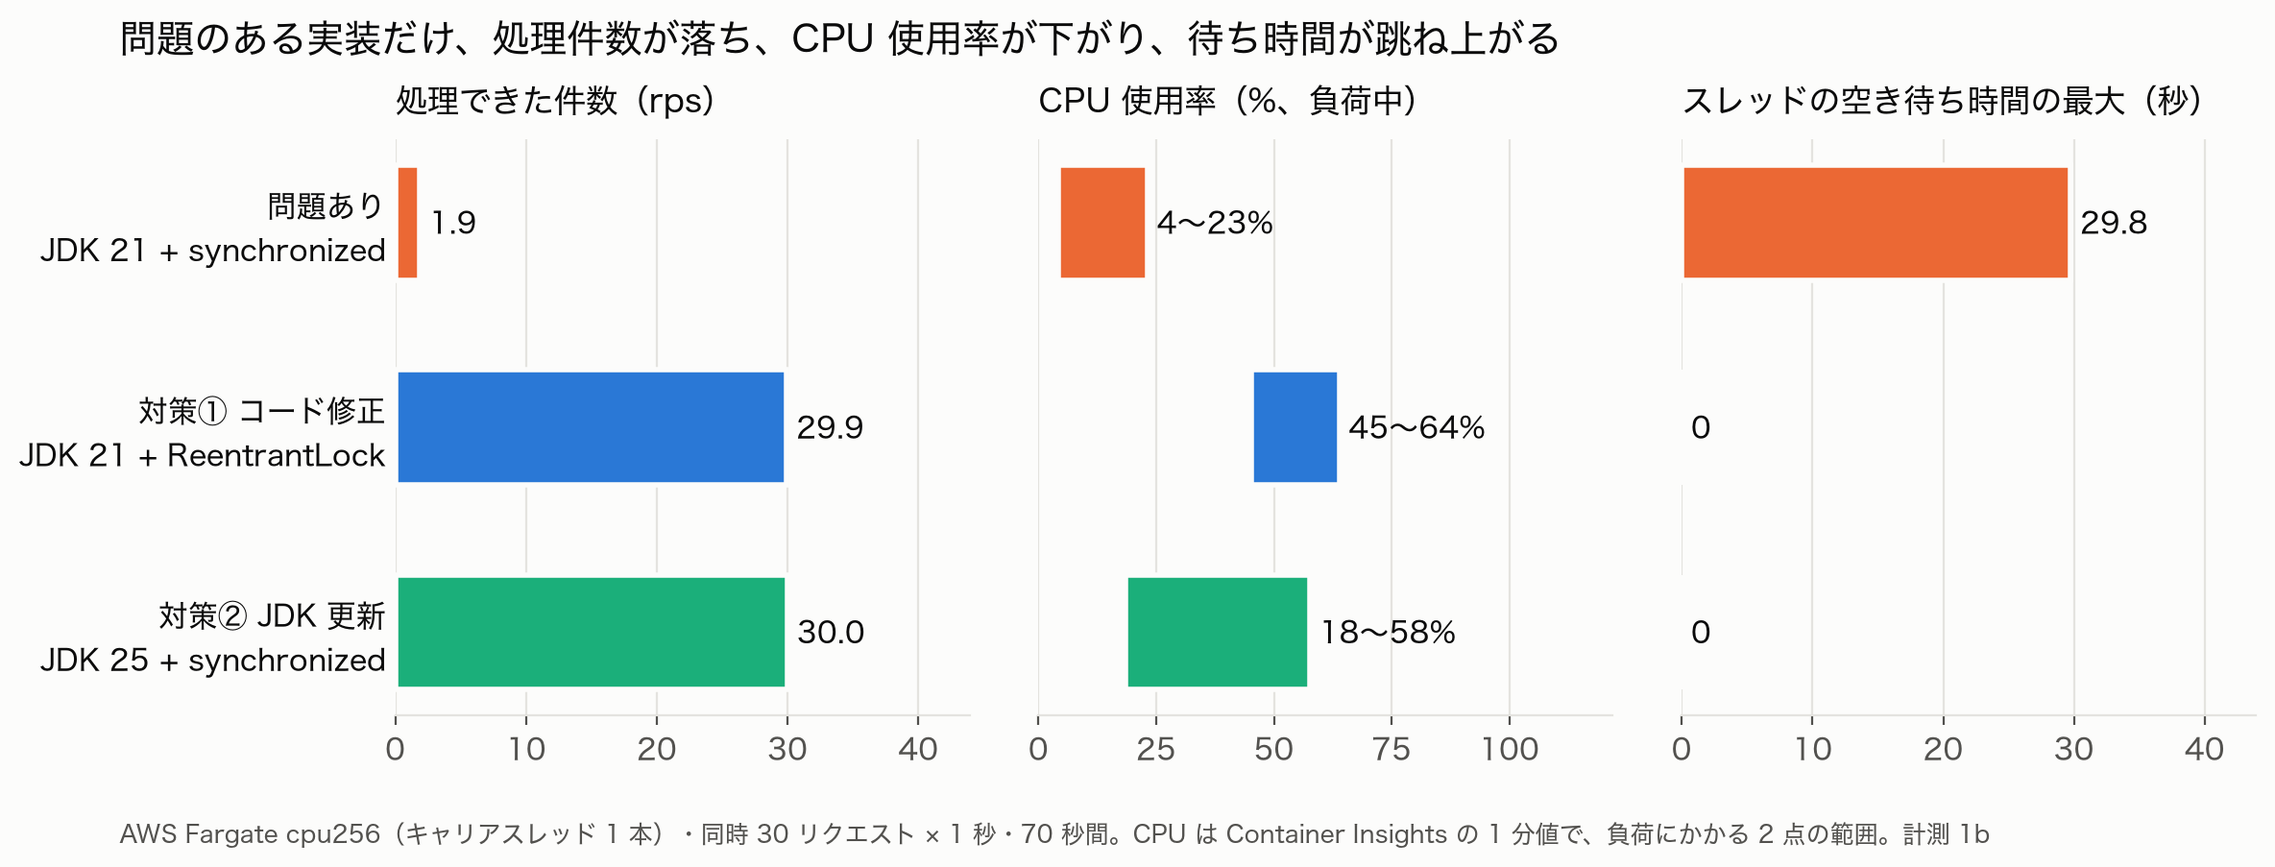
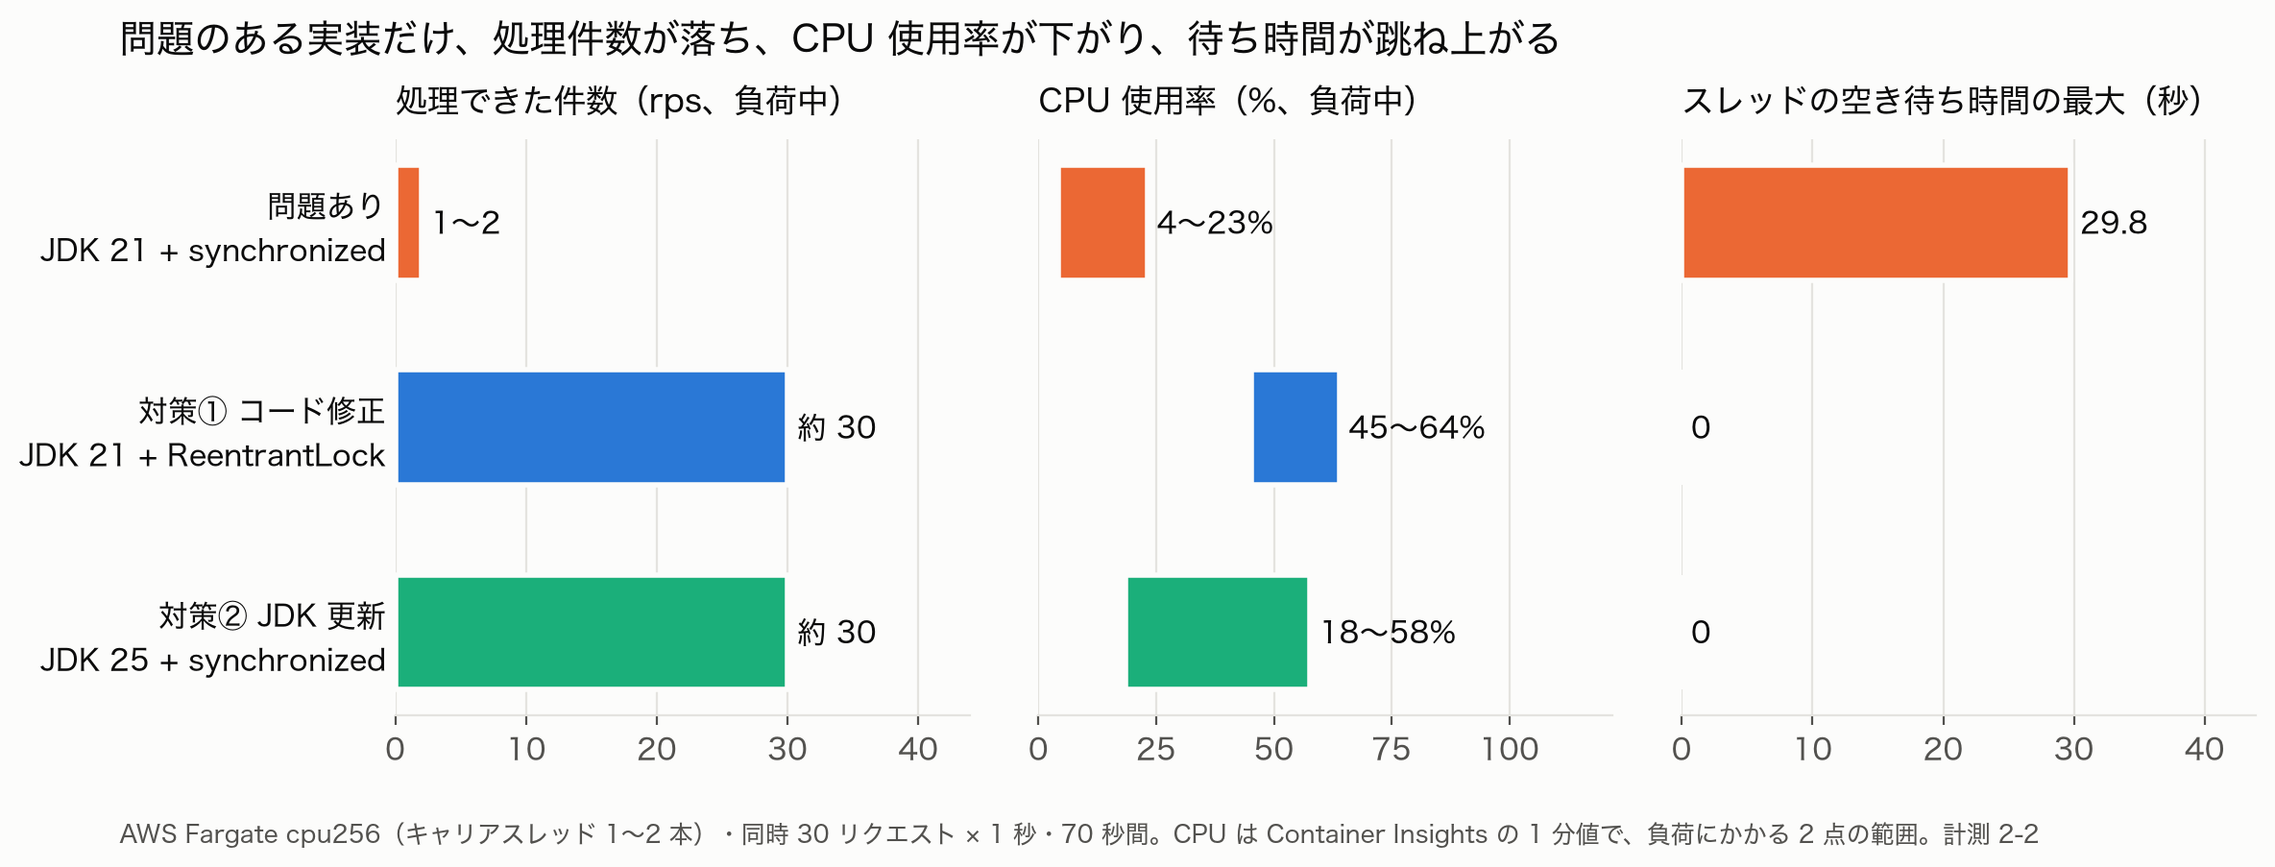
update: runtime/concurrency-model-rds-proxy-fargate

diff --git a/runtime/concurrency-model-rds-proxy-fargate/k6/crosstalk.js b/runtime/concurrency-model-rds-proxy-fargate/k6/crosstalk.js
@@ -1,7 +1,7 @@
 import http from 'k6/http';
 import { Counter, Trend } from 'k6/metrics';
 
-// 「少数のスレッドをブロックすると、無関係なリクエストまで巻き込まれる」ことを k6 で測る。
+// 「数の限られたスレッド（キャリアスレッド・イベントループ）をブロックすると、無関係なリクエストまで巻き込まれる」ことを k6 で測る。
 // crosstalk.sh の AWS 版。
 //
 // crosstalk.sh（curl + bc）を残しているのは、k6 のない環境でも検証の核を確認できるようにするため。

diff --git a/runtime/concurrency-model-rds-proxy-fargate/docs/figures/make_figures.py b/runtime/concurrency-model-rds-proxy-fargate/docs/figures/make_figures.py
@@ -3,7 +3,7 @@
 入力は k6/results/raw-logs/ に書き出した生データ（CloudWatch Logs は 7 日で消えるため手元に退避したもの）。
 git には入れていないので、この図を描き直せるのはデータを持っている手元だけ。
 
-  claim2-cpu-inversion.png  仮説 2: 問題のある実装だけ CPU 使用率が低く、待ち時間が跳ね上がる（計測 1b）
+  claim2-cpu-inversion.png  仮説 2: 問題のある実装だけ CPU 使用率が低く、待ち時間が跳ね上がる（計測 2-2）
   claim1-session-pinning.png  仮説 1: useServerPrepStmts を有効にすると、アプリの接続がすべてピニングされる
   claim1-db-threads.png     仮説 1: 接続は足りているのに DB の中で順番待ちしている（#18 の観測）
 
@@ -71,17 +71,19 @@ def load_window(end_jst):
 
 
 def claim2():
-    # 成功数は 70 秒の負荷区間の値（README 計測 1b）。遅れの最大は EMF のピーク
+    # 処理件数は負荷中の毎秒の件数（k6 のログを 1 秒ごとに見た値。README 計測 2-2）。
+    # 成功数 ÷ 70 秒にしないのは、成功数に負荷を止めた後の猶予（gracefulStop）に返った分が入るため。
+    # 問題ありは前半が毎秒 1 件、後半が毎秒 2 件。スレッドの空き待ち時間の最大は EMF のピーク
     conditions = [
-        # 表示名, 色, タスク定義, ログの書き終わり（JST）, 成功数, 遅れの最大 ms
-        ("問題あり\nJDK 21 + synchronized", BROKEN, "cnj-cm-mvc-jdk21-cpu256", "2026-09-24T23:11:27", 130, 29750),
-        ("対策① コード修正\nJDK 21 + ReentrantLock", FIX_CODE, "cnj-cm-mvc-jdk21-cpu256", "2026-09-24T23:07:14", 2096, 0),
-        ("対策② JDK 更新\nJDK 25 + synchronized", FIX_JDK, "cnj-cm-mvc-jdk25-cpu256", "2026-09-24T23:15:56", 2100, 0),
+        # 表示名, 色, タスク定義, ログの書き終わり（JST）, 毎秒の処理件数（最小, 最大）, スレッドの空き待ち時間の最大 ms
+        ("問題あり\nJDK 21 + synchronized", BROKEN, "cnj-cm-mvc-jdk21-cpu256", "2026-09-24T23:11:27", (1, 2), 29750),
+        ("対策① コード修正\nJDK 21 + ReentrantLock", FIX_CODE, "cnj-cm-mvc-jdk21-cpu256", "2026-09-24T23:07:14", (30, 30), 0),
+        ("対策② JDK 更新\nJDK 25 + synchronized", FIX_JDK, "cnj-cm-mvc-jdk25-cpu256", "2026-09-24T23:15:56", (30, 30), 0),
     ]
     rows = []
-    for name, color, family, end, successes, lag_ms in conditions:
+    for name, color, family, end, rps, lag_ms in conditions:
         lo, hi = cpu_range(family, *load_window(end))
-        rows.append((name, color, successes / 70, lo, hi, lag_ms / 1000))
+        rows.append((name, color, rps, lo, hi, lag_ms / 1000))
 
     fig, axes = plt.subplots(1, 3, figsize=(12.5, 3.9), sharey=True,
                              gridspec_kw={"wspace": 0.12})
@@ -89,7 +91,8 @@ def claim2():
     bar_h = 0.56
 
     panels = [
-        ("処理できた件数（rps）", lambda r: (0, r[2]), 36, lambda r: f"{r[2]:.1f}"),
+        ("処理できた件数（rps、負荷中）", lambda r: (0, r[2][1]), 36,
+         lambda r: f"{r[2][0]}〜{r[2][1]}" if r[2][0] != r[2][1] else f"約 {r[2][0]}"),
         ("CPU 使用率（%、負荷中）", lambda r: (r[3], r[4]), 100, lambda r: f"{r[3]:.0f}〜{r[4]:.0f}%"),
         ("スレッドの空き待ち時間の最大（秒）", lambda r: (0, r[5]), 36, lambda r: f"{r[5]:.1f}" if r[5] else "0"),
     ]
@@ -111,8 +114,8 @@ def claim2():
     fig.suptitle("問題のある実装だけ、処理件数が落ち、CPU 使用率が下がり、待ち時間が跳ね上がる", x=0.01, ha="left",
                  fontsize=14, color=INK, y=1.04)
     fig.text(0.01, -0.06,
-             "AWS Fargate cpu256（キャリアスレッド 1 本）・同時 30 リクエスト × 1 秒・70 秒間。"
-             "CPU は Container Insights の 1 分値で、負荷にかかる 2 点の範囲。計測 1b",
+             "AWS Fargate cpu256（キャリアスレッド 1〜2 本）・同時 30 リクエスト × 1 秒・70 秒間。"
+             "CPU は Container Insights の 1 分値で、負荷にかかる 2 点の範囲。計測 2-2",
              fontsize=9, color=INK_2, ha="left")
     fig.savefig(HERE / "claim2-cpu-inversion.png", dpi=200, bbox_inches="tight")
     plt.close(fig)
@@ -137,7 +140,7 @@ def db_threads(filename, start_utc=None, end_utc=None):
         fields = dict(part.split("=") for part in event["m"].split()[1:])
         points.append((t, int(fields["borrowed"]), max(int(fields["active"]) - 1, 0)))
     points.sort()
-    # k6 は本計測の前に 10 同時のウォームアップを流す。借りた本数が一度 0 に戻るまでを
+    # k6 は本計測の前に 10 同時のウォームアップを流す。使用中の本数が一度 0 に戻るまでを
     # ウォームアップとして落とし、本計測（同時 1 の段）の 3 秒前を 0 秒にする
     i = next(i for i, p in enumerate(points) if p[1] > 0)
     i = next(j for j in range(i, len(points)) if points[j][1] == 0)

diff --git a/runtime/concurrency-model-rds-proxy-fargate/common/src/main/java/com/ryotashi29/cnj/runtime/concurrency/common/metrics/StarvationProbe.java b/runtime/concurrency-model-rds-proxy-fargate/common/src/main/java/com/ryotashi29/cnj/runtime/concurrency/common/metrics/StarvationProbe.java
@@ -11,7 +11,7 @@ import java.util.concurrent.ScheduledExecutorService;
 import java.util.concurrent.TimeUnit;
 
 /**
- * 少数のスレッドがブロックされていることを、CPU ではなく<b>遅延</b>で測る。仮説 2 の対策のうち「観測」。
+ * 数の限られたスレッド（キャリアスレッド・イベントループ）がブロックされていることを、CPU ではなく<b>スレッドの空き待ち時間</b>で測る。仮説 2 の対策のうち「観測」。
  *
  * <p>やっていることは単純で、監視対象の executor に何もしないタスクを投げ、
  * <b>投げてから走り出すまでの時間</b>を測る。イベントループやキャリアスレッドがブロックされていれば、
@@ -62,7 +62,7 @@ public final class StarvationProbe implements AutoCloseable {
         watcher.scheduleAtFixedRate(this::tick, 0, intervalMillis, TimeUnit.MILLISECONDS);
     }
 
-    /** 監視対象のうち最も遅れているものの、いまの遅れ。 */
+    /** 監視対象のうち最も長く待たされているものの、いまの空き待ち時間。 */
     public long lagMillis() {
         long now = System.nanoTime();
         long max = 0;
@@ -73,7 +73,7 @@ public final class StarvationProbe implements AutoCloseable {
     }
 
     /**
-     * 前回呼ばれてから観測した遅れの最大値を返し、高水位をリセットする。
+     * 前回呼ばれてから観測した空き待ち時間の最大値を返し、高水位をリセットする。
      *
      * <p>メトリクスの送信間隔（数秒）より監視の間隔（数百ミリ秒）のほうが短いので、
      * 送信時点の瞬間値だけを送ると山を取り逃す。送信側はこちらを使う。
@@ -170,7 +170,7 @@ public final class StarvationProbe implements AutoCloseable {
         }
 
         private long lagMillis(long nowNanos) {
-            // 未完了なら「まだ走っていない時間」が遅れの下限。完了済みなら測れた値
+            // 未完了なら「まだ走っていない時間」が空き待ち時間の下限。完了済みなら測れた値
             long nanos = pending ? nowNanos - submittedAtNanos : lastLagNanos;
             return Math.max(0, nanos) / NANOS_PER_MILLI;
         }

diff --git a/runtime/concurrency-model-rds-proxy-fargate/common/src/main/java/com/ryotashi29/cnj/runtime/concurrency/common/metrics/DatabaseThreadObserver.java b/runtime/concurrency-model-rds-proxy-fargate/common/src/main/java/com/ryotashi29/cnj/runtime/concurrency/common/metrics/DatabaseThreadObserver.java
@@ -15,8 +15,8 @@ import java.util.function.IntSupplier;
 /**
  * DB の中で、いま本当に {@code SLEEP()} を実行している接続が何本あるかを数える。
  *
- * <p>アプリ側から見えるのは「接続を何本借りているか」まで。借りた接続の上で SQL が
- * <b>DB の中で実際に走り出しているか</b>は、アプリからは見えない。借りている本数と
+ * <p>アプリ側から見えるのは「接続を何本使用しているか」まで。使用中の接続の上で SQL が
+ * <b>DB の中で実際に走り出しているか</b>は、アプリからは見えない。使用中の本数と
  * 走っている本数を同じ瞬間に並べると、両者の差が「DB の中で順番待ちしている本数」になる。
  *
  * <p>数えるのは {@code information_schema.PROCESSLIST} のうち、{@code INFO} が
@@ -57,7 +57,7 @@ public final class DatabaseThreadObserver implements AutoCloseable {
     /**
      * 1 回ぶんの観測値。同じ瞬間に取った 4 つを 1 組で扱う。
      *
-     * @param borrowed アプリが借りている接続の本数
+     * @param borrowed アプリが使用中の接続の本数
      * @param sleeping DB の中で SLEEP を実行している本数
      * @param active   DB の中で何か実行している本数（SLEEP 以外も含む）
      * @param running  {@code Threads_running}。観測用の接続自身も 1 本含む
@@ -73,7 +73,7 @@ public final class DatabaseThreadObserver implements AutoCloseable {
 
     /**
      * @param jdbcUrl             観測用の接続先。アプリのプールとは別に 1 本だけ張る
-     * @param borrowedConnections アプリが借りている接続の本数を返す。HikariCP なら activeConnections
+     * @param borrowedConnections アプリが使用中の接続の本数を返す。HikariCP なら activeConnections
      * @param intervalMillis      観測の間隔
      */
     public DatabaseThreadObserver(String jdbcUrl, String user, String password,

diff --git a/runtime/concurrency-model-rds-proxy-fargate/mvc/src/main/java/com/ryotashi29/cnj/runtime/concurrency/mvc/config/StarvationMetricsConfig.java b/runtime/concurrency-model-rds-proxy-fargate/mvc/src/main/java/com/ryotashi29/cnj/runtime/concurrency/mvc/config/StarvationMetricsConfig.java
@@ -55,9 +55,9 @@ public class StarvationMetricsConfig {
     }
 
     /**
-     * ピニングそのものを数える。{@link StarvationProbe} が測る遅れの<b>原因側</b>。
+     * ピニングそのものを数える。{@link StarvationProbe} が測るスレッドの空き待ち時間の<b>原因側</b>。
      *
-     * <p>遅れだけでは「詰まった」ことしか言えない。ここを足すと、詰まりの原因が
+     * <p>空き待ち時間だけでは「詰まった」ことしか言えない。ここを足すと、詰まりの原因が
      * キャリアスレッドを離せないことだったと<b>推測ではなく数値で</b>言える。
      * 購読に失敗しても計測は続けたいので、{@code start()} の戻り値は
      * 送信側で見て、駄目なときはメトリクスを出さない（0 件と混同させない）。
@@ -73,9 +73,9 @@ public class StarvationMetricsConfig {
      * DB の中で SLEEP を実行している本数を数える。{@code DB_OBSERVER_HOST} を渡したときだけ動く。
      *
      * <p>プールを増やしても Proxy を外しても上限が 約 20 rps で動かなかった。
-     * アプリが借りている本数と、DB の中で実際に走っている本数を並べて、
+     * アプリが使用中の本数と、DB の中で実際に走っている本数を並べて、
      * <b>接続は足りているのに DB の中で順番待ちしている</b>のかを確かめる。
-     * 借りている本数は HikariCP の activeConnections。プールが起動する前は 0 を返す。
+     * 使用中の本数は HikariCP の activeConnections。プールが起動する前は 0 を返す。
      */
     @Bean(destroyMethod = "close")
     @ConditionalOnExpression("!'${db-observer.host:}'.isEmpty()")

diff --git a/runtime/concurrency-model-rds-proxy-fargate/mvc/src/main/java/com/ryotashi29/cnj/runtime/concurrency/mvc/controller/DiagnosticsController.java b/runtime/concurrency-model-rds-proxy-fargate/mvc/src/main/java/com/ryotashi29/cnj/runtime/concurrency/mvc/controller/DiagnosticsController.java
@@ -57,10 +57,10 @@ public class DiagnosticsController {
         result.put("boundedPermitsAvailable", databaseWorkload.availablePermits());
         // キャリアスレッドがブロックされていれば lagMillis が伸びる。CPU では見えない枯渇の申告
         starvationProbe.ifAvailable(probe -> result.put("starvation", probe.snapshot()));
-        // 遅れの原因側。available が false のときの 0 件は「観測していない」の意味なので、
+        // スレッドの空き待ち時間が延びた原因側。available が false のときの 0 件は「観測していない」の意味なので、
         // 件数だけでなく購読の状態も申告させる
         pinnedEventRecorder.ifAvailable(recorder -> result.put("pinning", recorder.snapshot()));
-        // 借りている接続の本数と、DB の中で SLEEP を実行している本数。差が DB の中の順番待ち
+        // 使用中の接続の本数と、DB の中で SLEEP を実行している本数。差が DB の中の順番待ち
         databaseThreadObserver.ifAvailable(observer -> result.put("databaseThreads", observer.snapshot()));
         result.put("memory", JvmDiagnostics.memory());
         return result;

diff --git a/runtime/concurrency-model-rds-proxy-fargate/mvc/src/main/java/com/ryotashi29/cnj/runtime/concurrency/mvc/service/PinnedWorkload.java b/runtime/concurrency-model-rds-proxy-fargate/mvc/src/main/java/com/ryotashi29/cnj/runtime/concurrency/mvc/service/PinnedWorkload.java
@@ -58,7 +58,7 @@ public class PinnedWorkload {
      * <p>{@code ReentrantLock} は {@code LockSupport.park} で待つため仮想スレッドがアンマウントされ、
      * 待っている間キャリアスレッドが空く。{@code synchronized} はモニタを JVM のスタックに結び付けるので
      * JDK 23 以前ではアンマウントできない。<b>直し方が「JDK を上げる」だけではないことを示すのが狙い。</b>
-     * JDK を選べない現場でも、少数のスレッドをブロックしない書き方に変えれば症状は消える。
+     * JDK を選べない現場でも、キャリアスレッドをブロックしない書き方に変えれば症状は消える。
      *
      * <p>ここで待つのは {@code lock()} ではなく、その中の {@code sleep} であることに注意。
      * ストライプを分散させているのでロック競合はほとんど起きず、

diff --git a/runtime/concurrency-model-rds-proxy-fargate/mvc/src/main/java/com/ryotashi29/cnj/runtime/concurrency/mvc/service/DatabaseWorkload.java b/runtime/concurrency-model-rds-proxy-fargate/mvc/src/main/java/com/ryotashi29/cnj/runtime/concurrency/mvc/service/DatabaseWorkload.java
@@ -45,7 +45,7 @@ public class DatabaseWorkload {
      * トランザクションの中で接続を握ったまま、<b>アプリ側で</b>保持時間だけ待つ。
      *
      * <p>{@link #holdConnection} の {@code SLEEP()} は接続だけでなく Aurora MySQL の中の処理（DB 側のスレッド）まで占有し、
-     * 借りている接続が 25 本でも DB の中で同時に進むのは 3〜4 本で頭打ちになった（2026-09-26）。
+     * 使用中の接続が 25 本でも DB の中で同時に進むのは 3〜4 本で頭打ちになった（2026-09-26）。
      * これでは上限がプールの大きさと無関係になり、{@code プールサイズ / 保持時間} を確かめられない。
      * こちらは待っている間 DB に何も投げないので、占有するのは接続だけになる。
      *

diff --git a/runtime/concurrency-model-rds-proxy-fargate/cdk/src/main/java/com/ryotashi29/cnj/runtime/concurrency/cdk/MeasurementTier.java b/runtime/concurrency-model-rds-proxy-fargate/cdk/src/main/java/com/ryotashi29/cnj/runtime/concurrency/cdk/MeasurementTier.java
@@ -76,7 +76,7 @@ public class MeasurementTier extends Construct {
     /**
      * ヒープと GC を固定する。タスクサイズを変えると {@code MaxRAMPercentage} 由来のヒープも動くため、
      * 固定しないと「タスクサイズを変えた結果」に「ヒープが変わった結果」が混ざる。
-     * 測りたいのは CPU 側（{@code availableProcessors} と少数のスレッドの本数）だけ。
+     * 測りたいのは CPU 側（{@code availableProcessors} とキャリアスレッド・イベントループの本数）だけ。
      *
      * <p>GC を明示するのは同じ理由。JVM の ergonomics は「2 CPU 以上かつ 2 GB 以上」で
      * G1 を選ぶため、{@code cpu256}（{@code availableProcessors} が 1）だけ Serial GC になる。

diff --git a/runtime/concurrency-model-rds-proxy-fargate/webflux/src/main/java/com/ryotashi29/cnj/runtime/concurrency/webflux/controller/DiagnosticsController.java b/runtime/concurrency-model-rds-proxy-fargate/webflux/src/main/java/com/ryotashi29/cnj/runtime/concurrency/webflux/controller/DiagnosticsController.java
@@ -19,7 +19,7 @@ import org.springframework.web.bind.annotation.RestController;
 /**
  * 計測条件を実行中のプロセス自身に申告させるエンドポイント。mvc 側と対になる。
  *
- * <p>仮説 2 は「少数のスレッドの本数が上限を決める」であり、WebFlux でのその本数は
+ * <p>仮説 2 は「数の限られたスレッドの本数が上限を決める」であり、WebFlux でのその本数は
  * イベントループスレッド数。{@code reactor.netty.ioWorkerCount} を明示していなければ
  * {@code max(4, availableProcessors())} が既定になるため、設定値と実際に立っている本数の
  * 両方を返す。Fargate の 0.25 vCPU で本当に本数が絞られるのかを、推測ではなく実測で押さえる。

diff --git a/runtime/concurrency-model-rds-proxy-fargate/common/src/main/java/com/ryotashi29/cnj/runtime/concurrency/common/diagnostics/JvmDiagnostics.java b/runtime/concurrency-model-rds-proxy-fargate/common/src/main/java/com/ryotashi29/cnj/runtime/concurrency/common/diagnostics/JvmDiagnostics.java
@@ -48,7 +48,7 @@ public final class JvmDiagnostics {
      * 名前が接頭辞に一致する生存スレッド数。
      *
      * <p>イベントループ（{@code reactor-http-nio-}）やキャリアスレッド（{@code ForkJoinPool}）が
-     * 実際に何本立っているかを見るために使う。仮説 2 の「少数のスレッドの本数が上限を決める」は
+     * 実際に何本立っているかを見るために使う。仮説 2 の「数の限られたスレッドの本数が上限を決める」は
      * この値が {@code availableProcessors()} に連動することが前提なので、推測せず実測する。
      */
     public static long countThreads(String namePrefix) {

diff --git a/runtime/concurrency-model-rds-proxy-fargate/common/src/main/java/com/ryotashi29/cnj/runtime/concurrency/common/metrics/PinnedEventRecorder.java b/runtime/concurrency-model-rds-proxy-fargate/common/src/main/java/com/ryotashi29/cnj/runtime/concurrency/common/metrics/PinnedEventRecorder.java
@@ -10,7 +10,7 @@ import jdk.jfr.consumer.RecordingStream;
 /**
  * 仮想スレッドのピニングを JFR の {@code jdk.VirtualThreadPinned} イベントとして数える。
  *
- * <p>{@link StarvationProbe} が測るのはブロックの<b>結果</b>（走り出すまでの遅れ）で、
+ * <p>{@link StarvationProbe} が測るのはブロックの<b>結果</b>（走り出すまでの空き待ち時間）で、
  * こちらが数えるのは<b>原因</b>（キャリアスレッドを離せないままブロックしたこと）。
  * 2 つを同じ名前空間に出すと、CloudWatch 上で原因と結果を同じ時間軸に重ねられる。
  *
